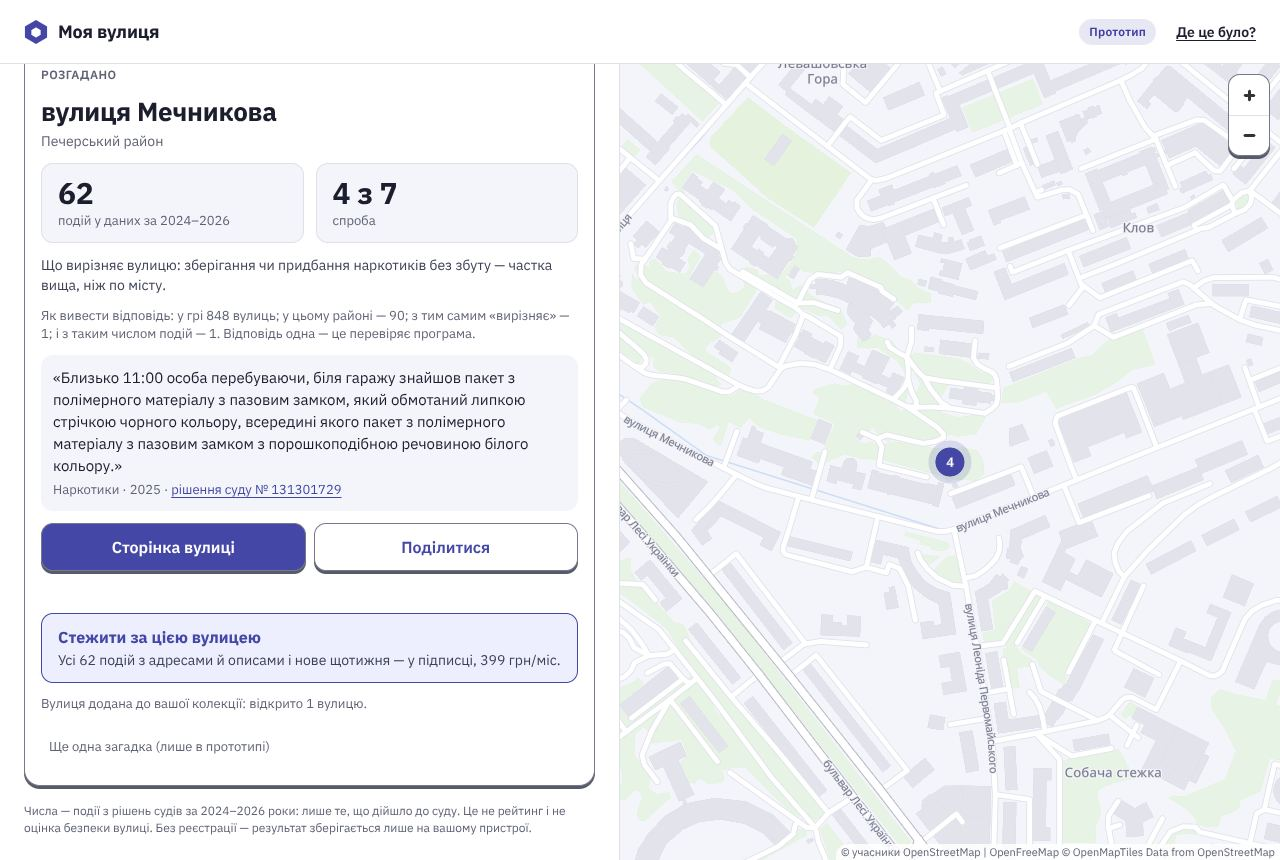
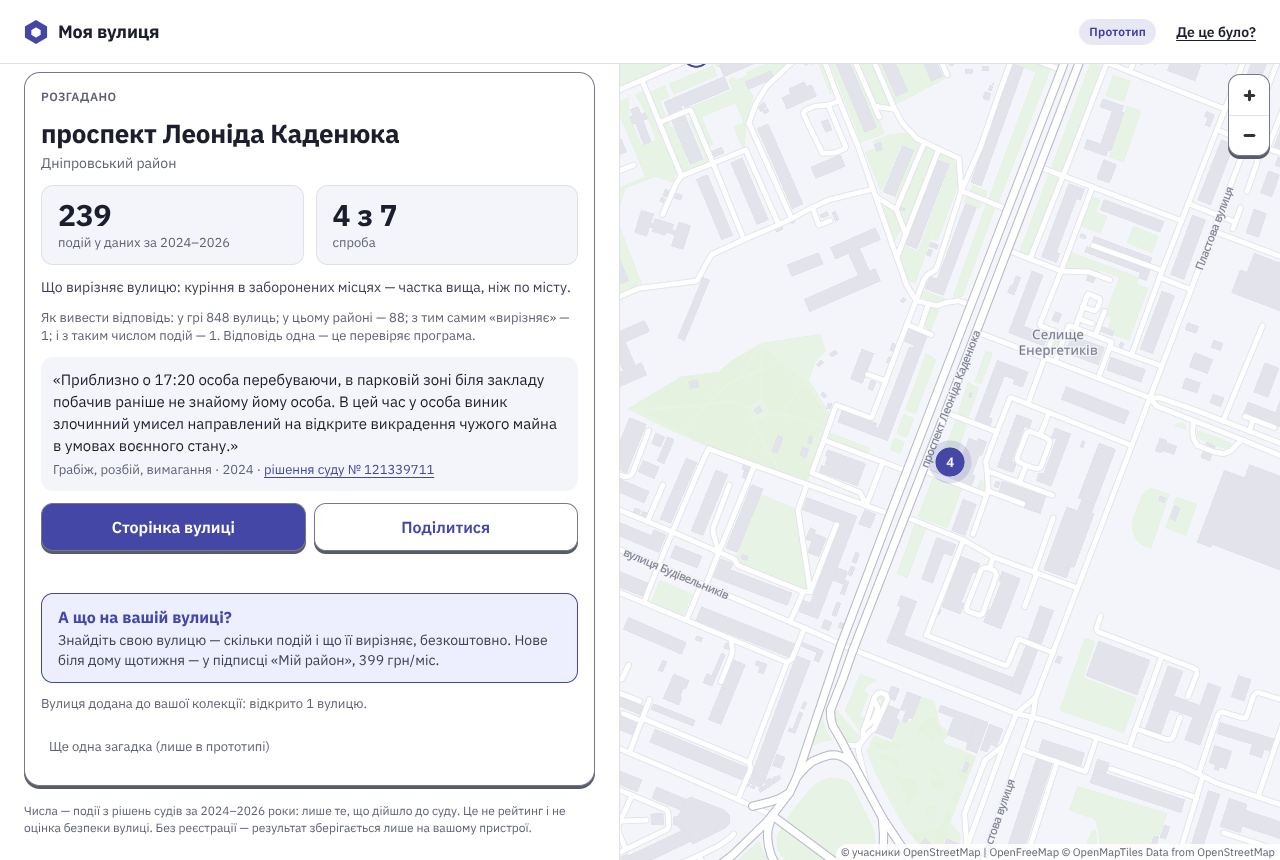
ZAVDANNYA-101: правки за грою на папері — старі назви в пошуку, підказка 3 — перша літера, «А що на вашій вулиці?»
Claude-Session: https://claude.ai/code/session_01R2AQHpmLsjxcURXSBizDEA

diff --git a/site/hra/vulytsia-yadro.js b/site/hra/vulytsia-yadro.js
@@ -12,7 +12,7 @@
 
   // Рядок файлу → об'єкт вулиці.
   function vulytsia(r) {
-    return { slug: r[0], nazva: r[1], typ: r[2], rayon: r[3], n: r[4], vyrizn: r[5], lat: r[6], lon: r[7] };
+    return { slug: r[0], nazva: r[1], typ: r[2], rayon: r[3], n: r[4], vyrizn: r[5], lat: r[6], lon: r[7], stara: r[8] || '' };
   }
 
   // Азимут від спроби до загаданої, градуси за годинниковою (0 — північ).
@@ -58,7 +58,7 @@
     for (var i = 0; i < vulytsi.length; i++) {
       var v = vulytsi[i];
       if (krim && krim[v.slug]) continue;
-      var nz = ' ' + normalizuvaty(v.nazva);
+      var nz = ' ' + normalizuvaty(v.nazva) + ' ' + normalizuvaty(v.stara);
       var vse = slova.every(function (s) { return nz.indexOf(' ' + s) !== -1; });
       if (vse) vykhid.push(v);
     }
@@ -72,8 +72,14 @@
   }
 
   // Які підказки відкриті після k невдалих спроб (сталий порядок; перевіряє тест).
-  // 0 — район; 3 — подія з колоди на цій вулиці; 5 — тип вулиці.
-  var PIDKAZKY = [{ pislia: 0, pole: 'rayon' }, { pislia: 3, pole: 'podiia' }, { pislia: 5, pole: 'typ' }];
+  // 0 — район; 3 — подія з колоди на цій вулиці; 5 — перша літера назви (тип і так видно з першої спроби — гра на папері).
+  var PIDKAZKY = [{ pislia: 0, pole: 'rayon' }, { pislia: 3, pole: 'podiia' }, { pislia: 5, pole: 'litera' }];
+
+  // «вулиця Івана Кавалерідзе» → «І»; «Дарницький бульвар» → «Д».
+  function persha(v) {
+    var n = v.nazva.split(' ').filter(function (s) { return s !== v.typ; }).join(' ');
+    return n.charAt(0).toUpperCase();
+  }
   function vidkryti(nevdali) {
     return PIDKAZKY.filter(function (p) { return nevdali >= p.pislia; }).map(function (p) { return p.pole; });
   }
@@ -95,7 +101,7 @@
 
   var Yadro = {
     vulytsia: vulytsia, azymut: azymut, porivnyaty: porivnyaty, normalizuvaty: normalizuvaty, shukaty: shukaty,
-    PIDKAZKY: PIDKAZKY, vidkryti: vidkryti, zahadkaDnya: zahadkaDnya, tekstPodilytysia: tekstPodilytysia
+    PIDKAZKY: PIDKAZKY, vidkryti: vidkryti, persha: persha, zahadkaDnya: zahadkaDnya, tekstPodilytysia: tekstPodilytysia
   };
   if (typeof module === 'object' && module.exports) module.exports = Yadro;
   korin.MvVulytsiaYadro = Yadro;

diff --git a/site/hra/vulytsia.js b/site/hra/vulytsia.js
@@ -81,8 +81,8 @@
         tekst.textContent = 'Відкриється після ' + p.pislia + '-ї невдалої спроби';
       } else if (p.pole === 'rayon') {
         tekst.textContent = zahadana.rayon + ' район';
-      } else if (p.pole === 'typ') {
-        tekst.textContent = 'Це ' + zahadana.typ;
+      } else if (p.pole === 'litera') {
+        tekst.textContent = 'Назва починається на «' + Y.persha(zahadana) + '»';
       } else {
         var pd = zahadka.podiia;
         var em = document.createElement('span');
@@ -188,8 +188,7 @@
     box.appendChild(t); box.appendChild(m);
     var storinka = '/vulytsia/' + zahadana.slug + '/';
     $('kinets-storinka').href = storinka + '?dzherelo=hra-vulytsia';
-    $('pidpyska').href = storinka + '?dzherelo=hra-vulytsia#stezhyty';
-    $('pidpyska-opys').textContent = 'Усі ' + H.chyslo(zahadana.n) + ' подій з адресами й описами і нове щотижня — у підписці, 399 грн/міс.';
+    $('pidpyska').href = '/vulytsi/?dzherelo=hra-vulytsia';
     var n = kolektsiia();
     $('kolektsiia').textContent = 'Вулиця додана до вашої колекції: відкрито ' + n + ' ' + (n % 10 === 1 && n % 100 !== 11 ? 'вулицю' : (n % 10 >= 2 && n % 10 <= 4 && (n % 100 < 12 || n % 100 > 14)) ? 'вулиці' : 'вулиць') + '.';
     onovytyKartu(true);
@@ -227,7 +226,7 @@
       li.setAttribute('role', 'option');
       li.id = 'vybir-' + i;
       li.className = 'vybir__ryadok';
-      var n = document.createElement('span'); n.textContent = v.nazva;
+      var n = document.createElement('span'); n.textContent = v.nazva + (v.stara ? ' (кол. ' + v.stara + ')' : '');
       var r = document.createElement('small'); r.textContent = v.rayon;
       li.appendChild(n); li.appendChild(r);
       li.addEventListener('mousedown', function (e) { e.preventDefault(); obraty(v); });

diff --git a/site/hra/vulytsia.html b/site/hra/vulytsia.html
@@ -82,8 +82,8 @@
       </div>
       <p class="podilytysia-stan" id="podilytysia-stan" role="status"></p>
       <a class="pidpyska" id="pidpyska" href="#">
-        <span class="pidpyska__nazva">Стежити за цією вулицею</span>
-        <span class="pidpyska__opys" id="pidpyska-opys">Усі події з адресами й описами, нове щотижня — у підписці «Мій район», 399 грн/міс.</span>
+        <span class="pidpyska__nazva">А що на вашій вулиці?</span>
+        <span class="pidpyska__opys" id="pidpyska-opys">Знайдіть свою вулицю — скільки подій і що її вирізняє, безкоштовно. Нове біля дому щотижня — у підписці «Мій район», 399 грн/міс.</span>
       </a>
       <p class="kolektsiia" id="kolektsiia"></p>
       <button type="button" class="knopka-tekst" id="shche">Ще одна загадка (лише в прототипі)</button>

diff --git a/tests/znimky_hry_vulytsia.js b/tests/znimky_hry_vulytsia.js
@@ -47,7 +47,7 @@ async function sproba(s, v) {
   await s.dispatchEvent('#pole', 'input');
   await s.waitForTimeout(100);
   await s.evaluate((nazva) => {
-    const r = [...document.querySelectorAll('.vybir__ryadok')].find((l) => l.firstChild.textContent === nazva);
+    const r = [...document.querySelectorAll('.vybir__ryadok')].find((l) => l.firstChild.textContent.startsWith(nazva));
     if (r) r.dispatchEvent(new MouseEvent('mousedown'));
   }, v.nazva);
   await s.click('#vidpravyty');

diff --git a/site/hra/vulytsia_dnia.py b/site/hra/vulytsia_dnia.py
@@ -37,7 +37,7 @@ sys.path.insert(0, str(KORIN / 'site' / 'sait'))
 import dani as D  # noqa: E402
 
 MIN_PODII_SPROBA = 5      # вулиця, яку можна назвати як спробу (має сторінку й профіль)
-MIN_PODII_VIDPOVID = 15   # вулиця-відповідь
+MIN_PODII_VIDPOVID = 20   # вулиця-відповідь (гра на папері: тихі вулиці спальних районів — перебір)
 MIN_STARTU = 25           # кандидатів після першої підказки (лише район) — щонайменше
 SPROB = 7
 ZABORONENI = re.compile(r'небезпечн|безпечн|рейтинг', re.I)
@@ -142,6 +142,11 @@ def zibraty(baza: Path, koloda_shlyakh: Path, pereim: Path | None, mezhi: Path) 
     vulytsi = [p for v in dn.vulytsi.values() if (p := profil(dn, v)) and p['rayon']]
     vulytsi.sort(key=lambda v: v['slug'])
     chysla = [v['n'] for v in vulytsi]
+    # Старі назви (довідник перейменувань): гравець шукає й так — «Шамо (кол. Давидова)».
+    stari = {}
+    for stara, slugy in dn.zvedennia.pereimenuvannia:
+        if len(slugy) == 1:
+            stari.setdefault(slugy[0], []).append(stara)
     koloda = json.loads(koloda_shlyakh.read_text(encoding='utf-8'))
     kol = podii_kolody(koloda, dn)
     zahadky, vidkynuto = [], Counter()
@@ -172,7 +177,8 @@ def zibraty(baza: Path, koloda_shlyakh: Path, pereim: Path | None, mezhi: Path) 
         'zibrano': datetime.date.today().isoformat(), 'sprob': SPROB,
         'roky': f'{D.VIDKRYTI_ROKY[0]}–{D.VIDKRYTI_ROKY[-1]}',
         'hrupy': HRUPY,
-        'vulytsi': [[v['slug'], v['nazva'], v['typ'], v['rayon'], v['n'], v['vyrizn'], v['lat'], v['lon']]
+        'vulytsi': [[v['slug'], v['nazva'], v['typ'], v['rayon'], v['n'], v['vyrizn'], v['lat'], v['lon'],
+                     ' · '.join(sorted(stari.get(v['slug'], [])))]
                     for v in vulytsi],
         'zahadky': zahadky,
         'vidkynuto': dict(vidkynuto),

diff --git a/tests/test_hra_vulytsia.py b/tests/test_hra_vulytsia.py
@@ -74,10 +74,11 @@ class Yadro(unittest.TestCase):
         r = node(r'''
 const Y = require('./vulytsia-yadro.js');
 const a = Y.vulytsia(['a', 'вулиця Хрещатик', 'вулиця', 'Шевченківський', 100, 'ДТП', 50.4470, 30.5220]);
-const b = Y.vulytsia(['b', 'вулиця Мечникова', 'вулиця', 'Печерський', 62, 'Наркотики', 50.4385, 30.5400]);
+const b = Y.vulytsia(['b', 'вулиця Мечникова', 'вулиця', 'Печерський', 62, 'Наркотики', 50.4385, 30.5400, 'вулиця Стара']);
 const p = Y.porivnyaty(a, b), t = Y.porivnyaty(b, b);
 process.stdout.write(JSON.stringify({ p, t, v0: Y.vidkryti(0), v3: Y.vidkryti(3), v5: Y.vidkryti(5),
-  poshuk: Y.shukaty([a, b], 'мечн').map(x => x.slug), poshuk2: Y.shukaty([a, b], 'хрещ', { a: true }).length,
+  poshuk: Y.shukaty([a, b], 'мечн').map(x => x.slug), stara: Y.shukaty([a, b], 'стара').map(x => x.slug),
+  litera: Y.persha(b), poshuk2: Y.shukaty([a, b], 'хрещ', { a: true }).length,
   tekst: Y.tekstPodilytysia('2026-11-17', [p, t], true, 7, 'sait') }));''')
         p, t = r['p'], r['t']
         self.assertFalse(p['tak'])
@@ -89,7 +90,9 @@ process.stdout.write(JSON.stringify({ p, t, v0: Y.vidkryti(0), v3: Y.vidkryti(3)
         self.assertTrue(t['tak'] and t['vidstanM'] == 0 and t['n'] == 0)
         self.assertEqual(r['v0'], ['rayon'])
         self.assertEqual(r['v3'], ['rayon', 'podiia'])
-        self.assertEqual(r['v5'], ['rayon', 'podiia', 'typ'])
+        self.assertEqual(r['v5'], ['rayon', 'podiia', 'litera'])
+        self.assertEqual(r['litera'], 'М')
+        self.assertEqual(r['stara'], ['b'], 'вулицю знаходимо й за старою назвою')
         self.assertEqual(r['poshuk'], ['b'])
         self.assertEqual(r['poshuk2'], 0, 'уже названу вулицю вдруге не пропонуємо')
         self.assertNotIn('Мечникова', r['tekst'], '«Поділитися» без назви вулиці')
